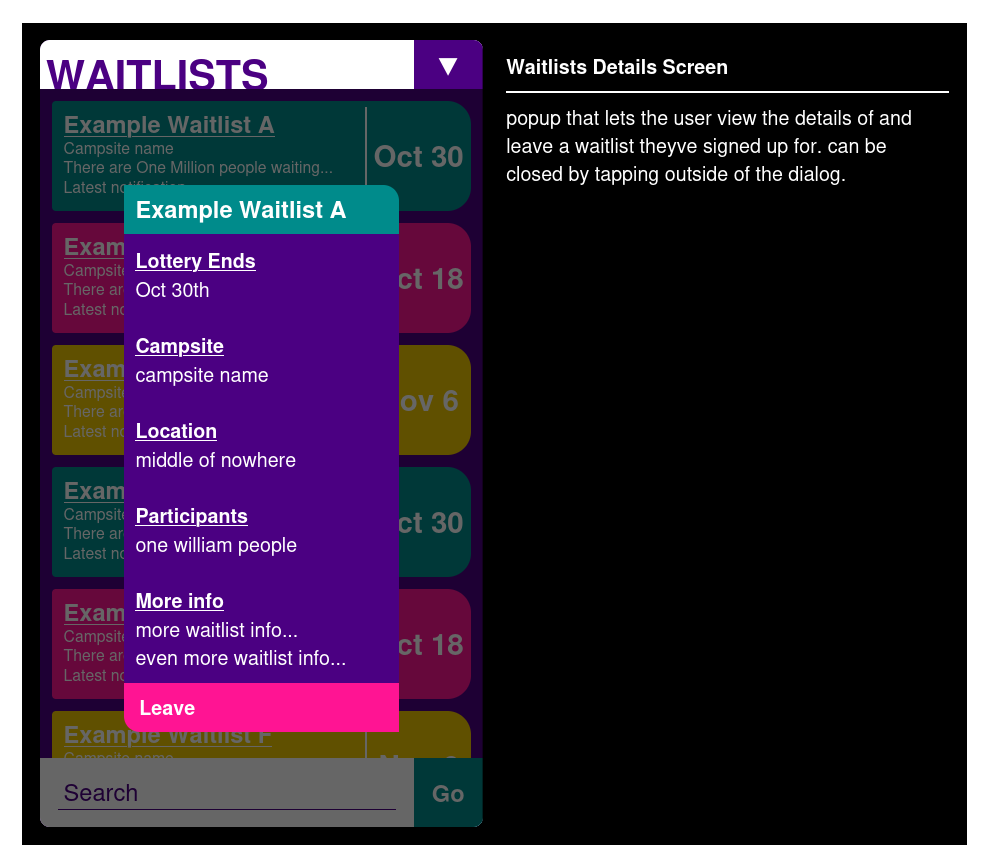
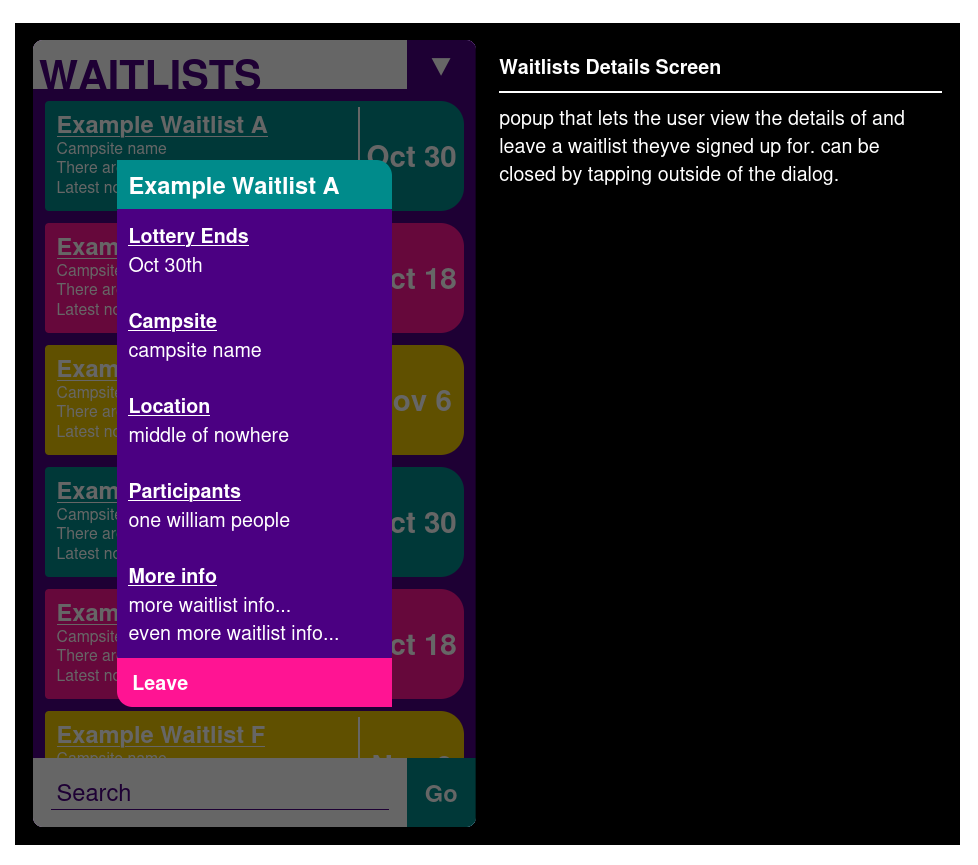
fixed background dimming

Changed region(s): [[0.0, 0.0304, 0.9816, 1.0]]

diff --git a/doc/mockups.html b/doc/mockups.html
@@ -1232,7 +1232,7 @@
     <!-- CAMPSITE DETAILS MODAL -->
     <div class="sboard col">
         <div class="screen" style="grid-template-rows: 50px 680px 70px;">
-            <div class="inv row" style="grid-row: 1 / 2;">
+            <div class="inv row" style="grid-row: 1 / 2; grid-column: 1">
                 <div style="display: grid; align-items: end;">
                     <p class="min bold" style="font-size: 42px; padding: 0 6px; line-height: 0.75em; text-wrap: nowrap;">
                         CAMPSITES
@@ -1245,7 +1245,7 @@
                     </div>
                 </div>
             </div>
-            <div class="row cen modalbg" style="z-index: 20; grid-row: 2 / 4; grid-column: 1;">
+            <div class="row cen modalbg" style="z-index: 20; grid-row: 1 / 4; grid-column: 1;">
                 <div class="col cen">
                     <div style="display: grid; grid-template-rows: 50px auto 50px; max-width: 400px; max-height: 600px;
                         border-radius: 0 16px 0 16px; overflow: hidden;">
@@ -1357,10 +1357,119 @@
             </p>
         </div>
     </div>
+    <!-- CAMPSITE FILTER MODAL -->
+    <div class="sboard col">
+        <div class="screen" style="grid-template-rows: 50px 680px 70px;">
+            <div class="inv row" style="grid-row: 1 / 2; grid-column: 1;">
+                <div style="display: grid; align-items: end;">
+                    <p class="min bold" style="font-size: 42px; padding: 0 6px; line-height: 0.75em; text-wrap: nowrap;">
+                        CAMPSITES
+                    </p>
+                </div>
+                <div class="w1"></div>
+                <div class="row cen inv" style="width: 70px;">
+                    <div class="col cen">
+                        <p class="min" style="font-size: 32px;">▼</p>
+                    </div>
+                </div>
+            </div>
+            <div class="row cen modalbg" style="z-index: 20; grid-row: 1 / 4; grid-column: 1;">
+                <div class="col cen">
+                    <div style="display: grid; grid-template-rows: 50px auto 50px; max-width: 400px; max-height: 600px;
+                        border-radius: 0 16px 0 16px; overflow: hidden;">
+                        <div class="col cen nor" style="grid-row: 1 / 2; padding: 0 24px;">
+                            <p class="min modaltitle">
+                                Filter
+                            </p>
+                        </div>
+                        <div class="nor modal" style="grid-row: 2 / 3; background-color: var(--light);">
+                            <form style="display: grid; grid-template-rows: repeat(3, 52px); grid-template-columns: 280px; row-gap: 16px; padding: 16px 20px;">
+                                <input type="text" class="text inv uline" placeholder="Location" style="grid-row: 1 / 2; padding: 0px 12px;"/>
+                                <input type="text" class="text inv uline" placeholder="Guest Count" style="grid-row: 2 / 3; padding: 0px 12px;"/>   
+                                <input type="reset" class="text bold nor" value="Date" style="grid-row: 3 / 4; padding: 0px 12px; border-radius: 0 16px 0 0;"/>
+                            </form>
+                        </div>
+                        <div style="grid-row: 3 / 4; display: grid; grid-template-columns: 1fr 1fr;">
+                            <div class="col cen square1" style="grid-row: 1; grid-column: 1 / 3; padding: 0 16px;">
+                                <p class="min bold" style="font-size: 20px;">Confirm</p>
+                            </div>
+                        </div>
+                    </div>
+                </div>
+            </div>
+            <div class="col" style="padding: 5px 0; overflow: scroll; z-index: 10; grid-row: 2 / 4; grid-column: 1;">
+                <div class="campbox square1">
+                    <img class="campthumb"/>
+                    <div class="campdesc">
+                        <p class="min campname">Example Campsite 1</p>
+                        <p class="min camprating">★★★★☆</p>
+                        <p class="min" style="grid-column: 1 / 3;">a real four out of five campsite at campsite dot com</p>
+                    </div>
+                </div>
+                <div class="campbox square2">
+                    <img class="campthumb"/>
+                    <div class="campdesc">
+                        <p class="min campname">Example Campsite 2</p>
+                        <p class="min camprating">★★★★☆</p>
+                        <p class="min" style="grid-column: 1 / 3;">a real four out of five campsite at campsite dot com</p>
+                    </div>
+                </div>
+                <div class="campbox square3">
+                    <img class="campthumb"/>
+                    <div class="campdesc">
+                        <p class="min campname">Example Campsite 3</p>
+                        <p class="min camprating">★★★★☆</p>
+                        <p class="min" style="grid-column: 1 / 3;">a real four out of five campsite at campsite dot com</p>
+                    </div>
+                </div>
+                <div class="campbox square1">
+                    <img class="campthumb"/>
+                    <div class="campdesc">
+                        <p class="min campname">Example Campsite 4</p>
+                        <p class="min camprating">★★★★☆</p>
+                        <p class="min" style="grid-column: 1 / 3;">a real four out of five campsite at campsite dot com</p>
+                    </div>
+                </div>
+                <div class="campbox square2">
+                    <img class="campthumb"/>
+                    <div class="campdesc">
+                        <p class="min campname">Example Campsite 5</p>
+                        <p class="min camprating">★★★★☆</p>
+                        <p class="min" style="grid-column: 1 / 3;">a real four out of five campsite at campsite dot com</p>
+                    </div>
+                </div>
+                <div class="campbox square3">
+                    <img class="campthumb"/>
+                    <div class="campdesc">
+                        <p class="min campname">Example Campsite 6</p>
+                        <p class="min camprating">★★★★☆</p>
+                        <p class="min" style="grid-column: 1 / 3;">a real four out of five campsite at campsite dot com</p>
+                    </div>
+                </div>
+            </div>
+            <form class="inv row" style="grid-row: 3 / 4; grid-column: 1; z-index: 15;">
+                <div class="col cen w1" style="padding: 0px 18px;">
+                    <input type="text" class="text inv uline" placeholder="Search" style="padding: 0px 6px;"/>
+                </div>
+                <input type="reset" class="text nor bold" value="Go" style="width: 70px; padding: 0px 24px; text-align: center; background-color: var(--acc1);"/>
+            </form>
+        </div>
+        <div class="sbdesc"> 
+            <p class="min bold">
+                Campsite Search Filter
+            </p>
+            <hr class="nor">
+            <p class="min">
+                popup where the user can add location, guest count, and date filters to their search results.
+                the <span class="bold">Date</span> button opens up a calendar dialog.
+                also the filter button in the top right changes appearance.
+            </p>
+        </div>
+    </div>
     <!-- WAITLISTS MODAL -->
     <div class="sboard col">
         <div class="screen" style="grid-template-rows: 50px 680px 70px;">
-            <div class="inv row" style="grid-row: 1 / 2;">
+            <div class="inv row" style="grid-row: 1 / 2; grid-column: 1">
                 <div style="display: grid; align-items: end;">
                     <p class="min bold" style="font-size: 42px; padding: 0 6px; line-height: 0.75em; text-wrap: nowrap;">
                         WAITLISTS
@@ -1373,7 +1482,7 @@
                     </div>
                 </div>
             </div>
-            <div class="row cen modalbg" style="z-index: 20; grid-row: 2 / 4; grid-column: 1;">
+            <div class="row cen modalbg" style="z-index: 20; grid-row: 1 / 4; grid-column: 1;">
                 <div class="col cen">
                     <div style="display: grid; grid-template-rows: 50px auto 50px; max-width: 400px; max-height: 600px;
                         border-radius: 0 16px 0 16px; overflow: hidden;">
